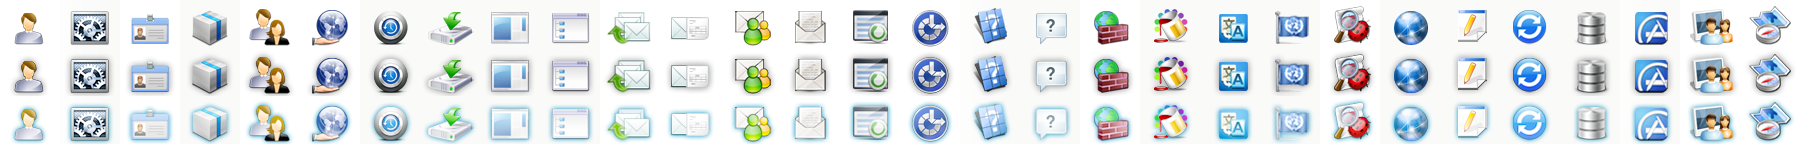
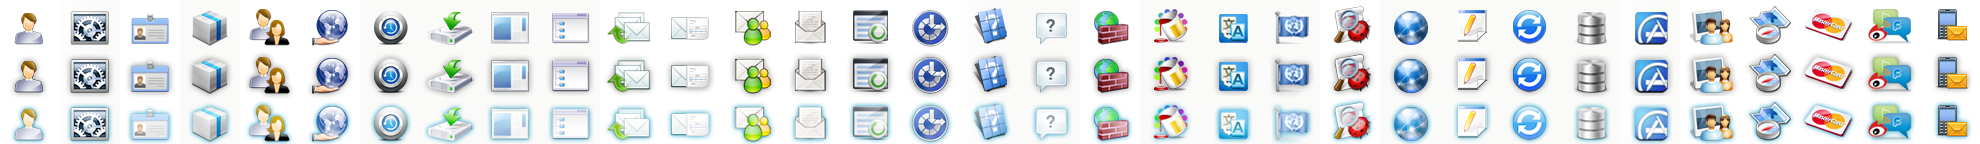
git-svn-id: http://openbiz-cubi.googlecode.com/svn/trunk@3637 104121f4-e14d-89f9-dcf5-eda1cd0138dc

diff --git a/cubi/themes/default/css/system_dashboard_icons.css b/cubi/themes/default/css/system_dashboard_icons.css
@@ -360,3 +360,35 @@
 #main #right_panel .dashboard_panel .icons .icon_location:active img {
 	background-position:-1740px -96px;
 }
+
+#main #right_panel .dashboard_panel .icons .icon_oauth img {
+	background-position:-1860px 0px;
+}
+#main #right_panel .dashboard_panel .icons .icon_oauth:hover img {
+	background-position:-1860px -48px;
+}
+#main #right_panel .dashboard_panel .icons .icon_oauth:active img {
+	background-position:-1860px -96px;
+}
+
+
+#main #right_panel .dashboard_panel .icons .icon_payment img {
+	background-position:-1800px 0px;
+}
+#main #right_panel .dashboard_panel .icons .icon_payment:hover img {
+	background-position:-1800px -48px;
+}
+#main #right_panel .dashboard_panel .icons .icon_payment:active img {
+	background-position:-1800px -96px;
+}
+
+#main #right_panel .dashboard_panel .icons .icon_sms img {
+	background-position:-1920px 0px;
+}
+#main #right_panel .dashboard_panel .icons .icon_sms:hover img {
+	background-position:-1920px -48px;
+}
+#main #right_panel .dashboard_panel .icons .icon_sms:active img {
+	background-position:-1920px -96px;
+}
+

diff --git a/cubi/themes/fullwidth/css/system_dashboard_icons.css b/cubi/themes/fullwidth/css/system_dashboard_icons.css
@@ -360,3 +360,35 @@
 #main #right_panel .dashboard_panel .icons .icon_location:active img {
 	background-position:-1740px -96px;
 }
+
+
+#main #right_panel .dashboard_panel .icons .icon_oauth img {
+	background-position:-1860px 0px;
+}
+#main #right_panel .dashboard_panel .icons .icon_oauth:hover img {
+	background-position:-1860px -48px;
+}
+#main #right_panel .dashboard_panel .icons .icon_oauth:active img {
+	background-position:-1860px -96px;
+}
+
+
+#main #right_panel .dashboard_panel .icons .icon_payment img {
+	background-position:-1800px 0px;
+}
+#main #right_panel .dashboard_panel .icons .icon_payment:hover img {
+	background-position:-1800px -48px;
+}
+#main #right_panel .dashboard_panel .icons .icon_payment:active img {
+	background-position:-1800px -96px;
+}
+
+#main #right_panel .dashboard_panel .icons .icon_sms img {
+	background-position:-1920px 0px;
+}
+#main #right_panel .dashboard_panel .icons .icon_sms:hover img {
+	background-position:-1920px -48px;
+}
+#main #right_panel .dashboard_panel .icons .icon_sms:active img {
+	background-position:-1920px -96px;
+}
